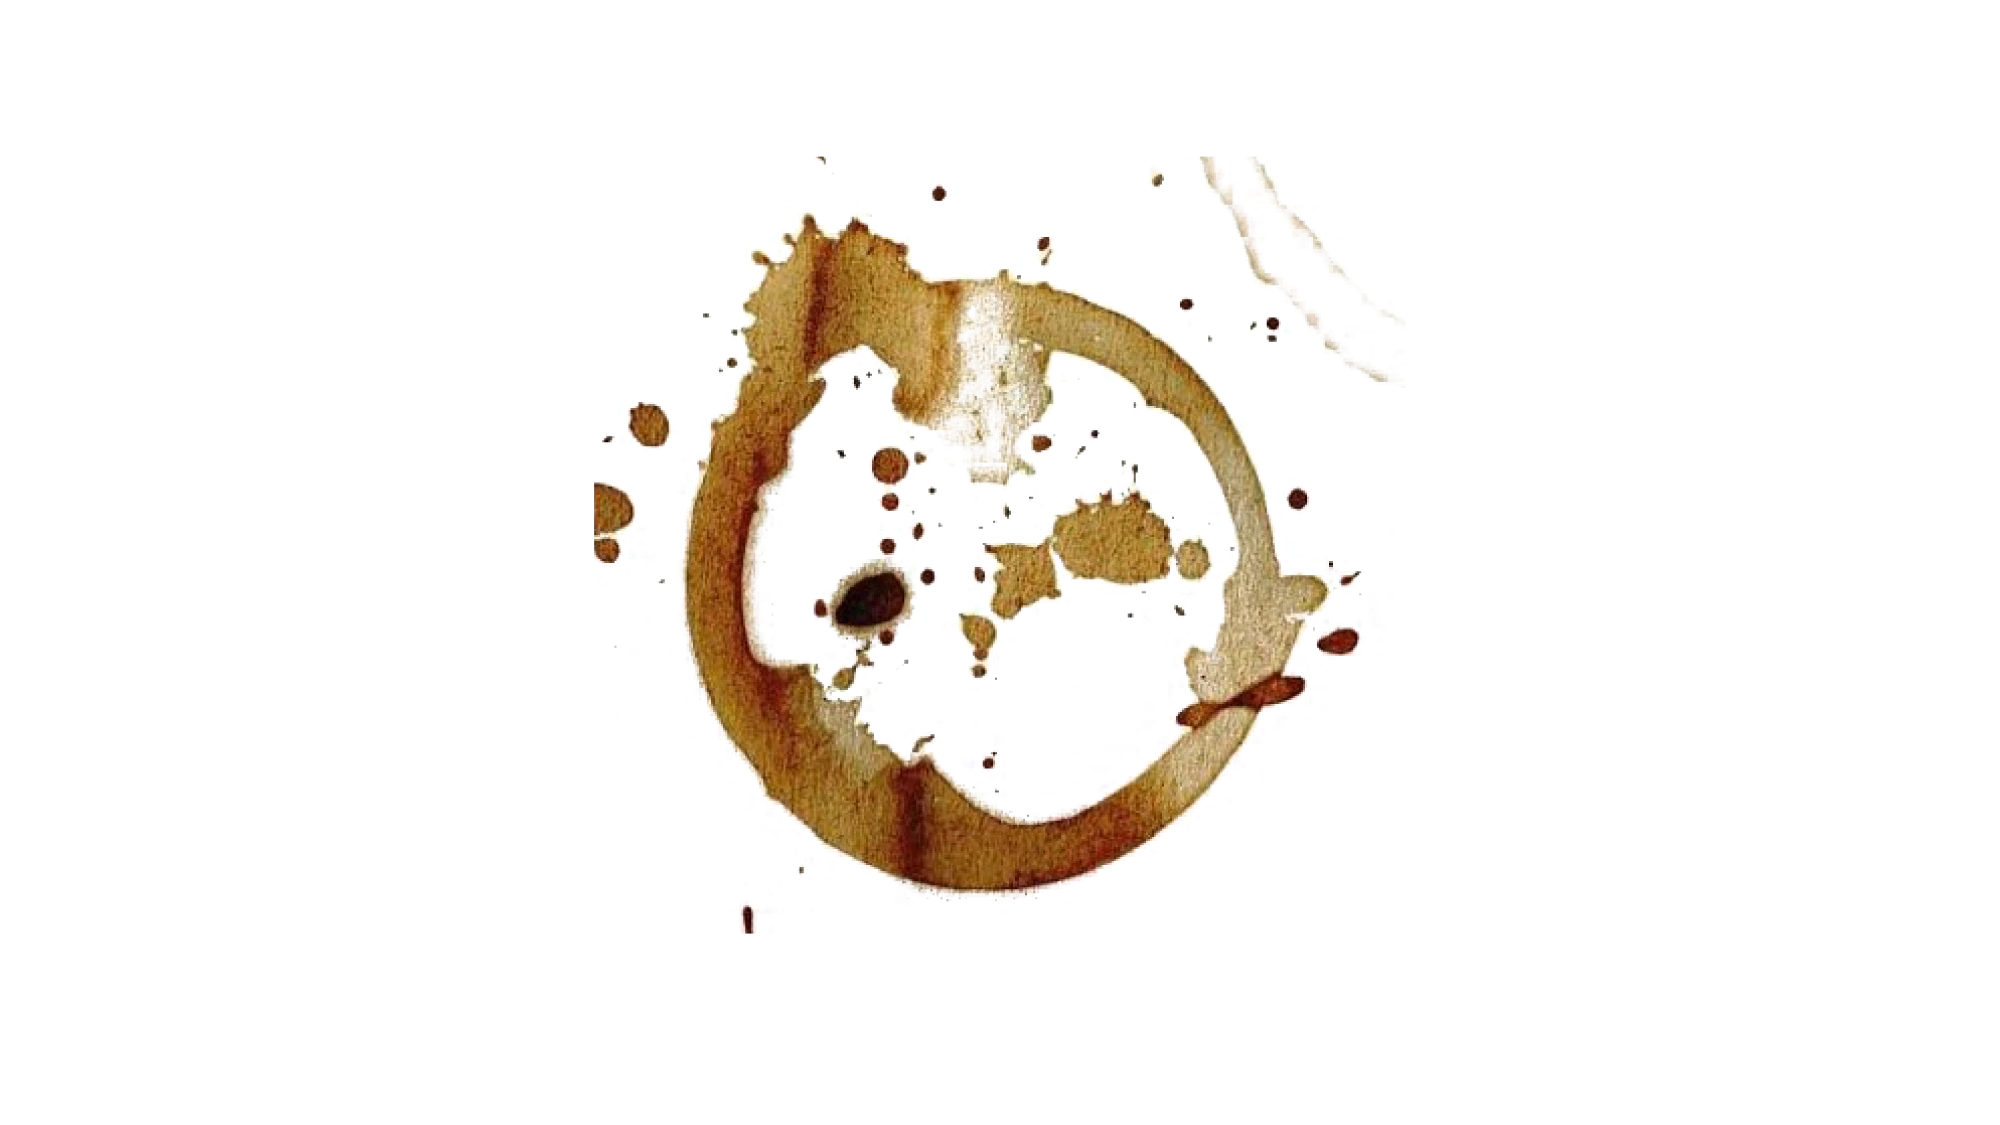
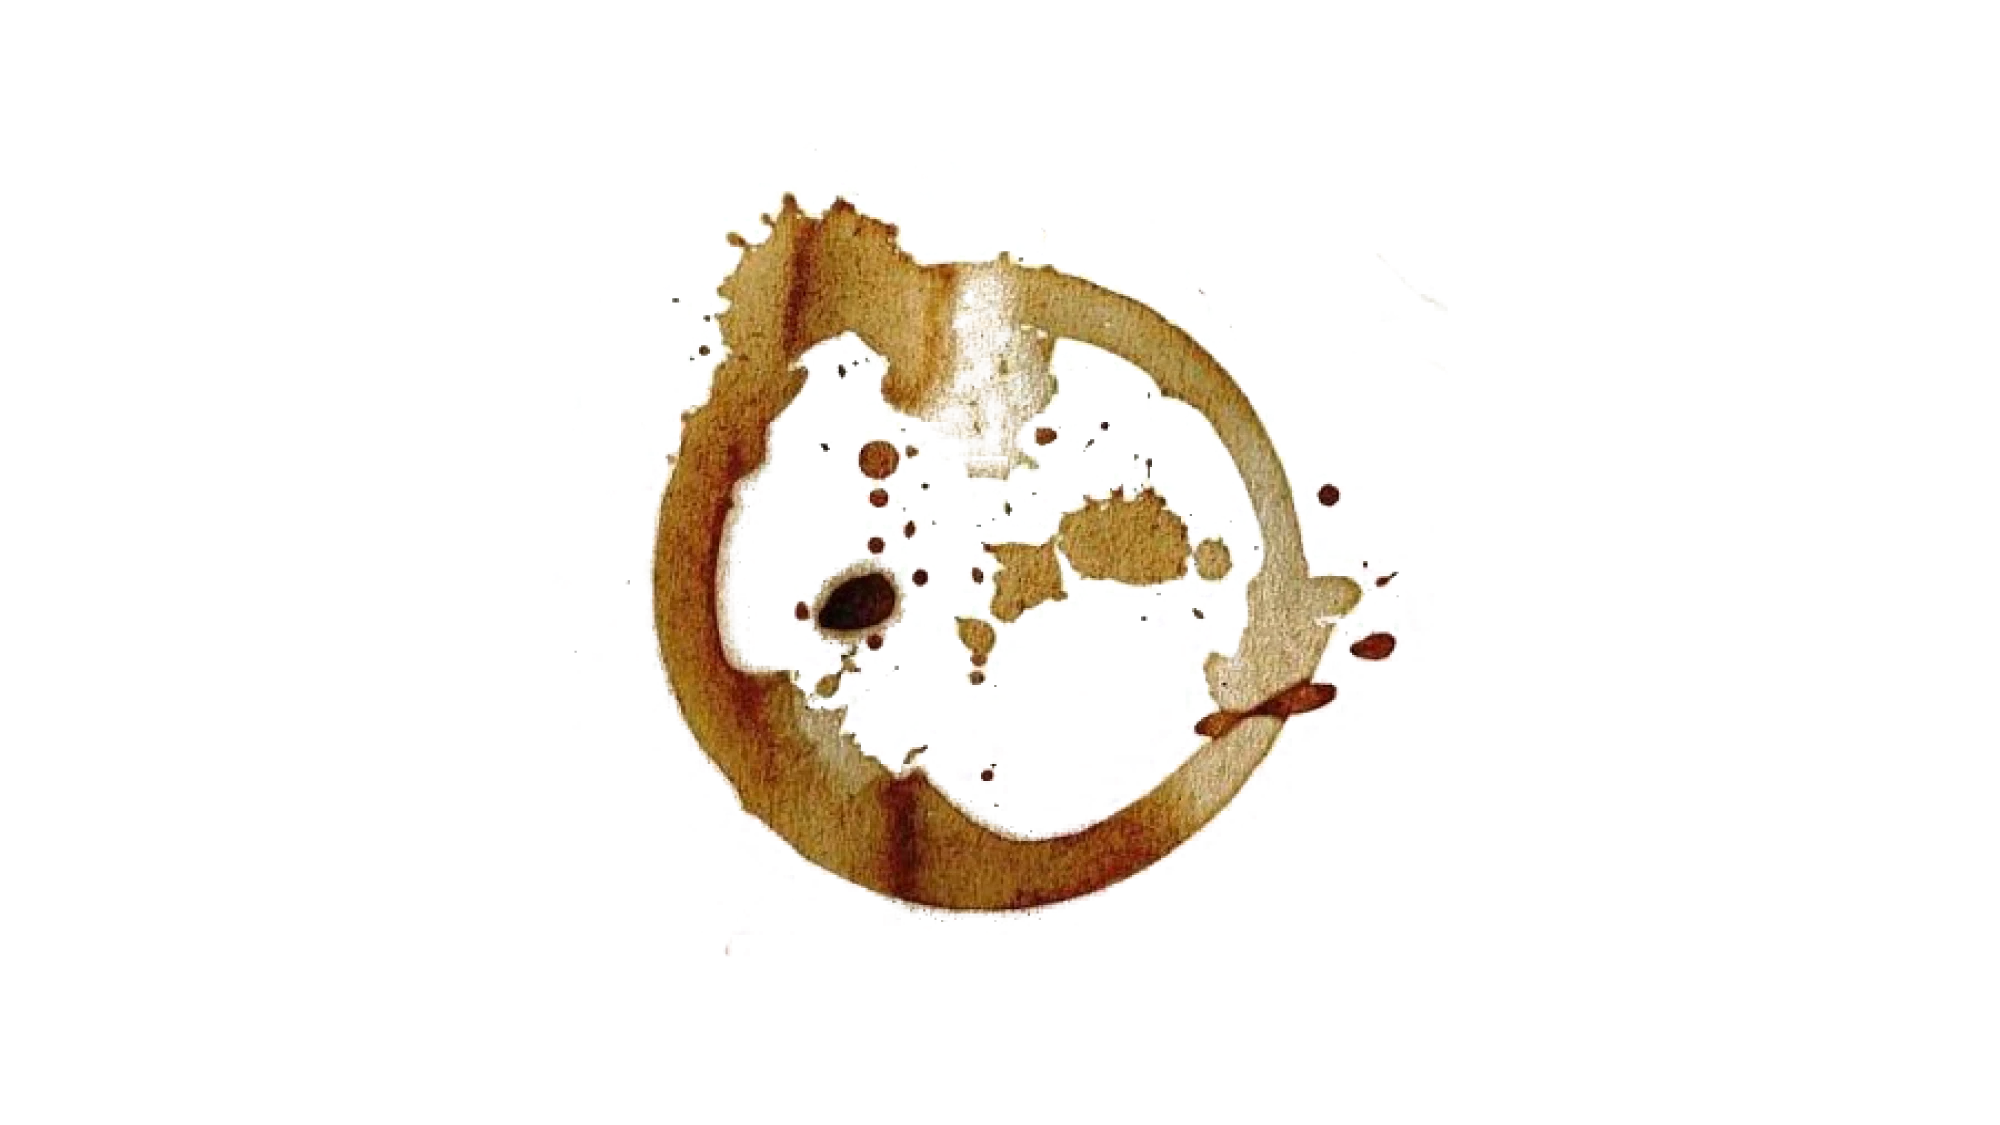
Use final transparent hero artwork and update asset notes
Claude-Session: https://claude.ai/code/session_01UELa4nN2nTxoVeK7DGTE9y

diff --git a/BRIEF.md b/BRIEF.md
@@ -81,10 +81,11 @@ Header nav: logo/wordmark (left) · Work · Notes · About · Contact (right). F
 - **No JS:** show the illustration with the stain as a static, slightly transparent overlay. The page must never be blank.
 - **Accessibility:** canvas gets `aria-hidden="true"`; the `<img>` underneath carries the description, e.g. *"Illustration of a person asleep on a giant orange slice, surrounded by burgers, donuts, pizza and popcorn, hidden beneath a chai stain."*
 
-### 3.4 Asset notes (important)
-- The files currently in `assets/hero/` are **placeholders** exported on white backgrounds. For the final build, export **both on the same artboard size (e.g. 2400×1350) with transparent backgrounds** as WebP (with alpha) plus a PNG fallback, perfectly aligned.
-- Until then, use `mix-blend-mode: multiply` on the stain/illustration so the white areas disappear into the paper background.
-- Target size: < 250 KB each. Also export a 1200 px version for mobile (`srcset`).
+### 3.4 Asset notes
+- `assets/hero/chai-stain.webp` and `assets/hero/illustration.webp` are **final**: 2000×1125 WebP, transparent backgrounds, on the same artboard and already aligned. Stack them at identical size and position and they line up.
+- Bounding boxes on the artboard: stain ≈ x 552–1448, y 132–957; illustration ≈ x 653–1385, y 185–958. The stain fully covers the illustration, so nothing peeks out before interaction. Crop both images to the same union box if you want smaller files, but keep them registered.
+- Generate a 1200 px wide version of each for mobile (`srcset`) and a PNG fallback. Keep each file < 250 KB.
+- Because the backgrounds are transparent, the warm `--paper` colour shows through around the art; no blend-mode tricks needed.
 
 ---
 
@@ -244,7 +245,7 @@ Run one phase at a time. Review in the browser before continuing.
 
 ## 11. Content checklist (what you need to prepare)
 
-- [ ] Final hero art: stain + illustration on the **same artboard**, transparent backgrounds (§3.4)
+- [x] Final hero art: stain + illustration on the same artboard, transparent backgrounds (§3.4)
 - [ ] Your name, role title, one-sentence positioning statement
 - [ ] 4–6 projects, each with: final images, **process images** (sketches/roughs, needed for the layer-peek), the brief, your insight, outcome
 - [ ] 3 Field Notes ideas (brands whose hidden stories you've noticed)

diff --git a/CLAUDE.md b/CLAUDE.md
@@ -2,6 +2,6 @@
 
 - `BRIEF.md` is the source of truth for concept, design system, interactions and build phases. Read it before any work.
 - Build one phase (BRIEF.md §10) at a time and meet its acceptance checks before moving on.
-- Hero artwork lives in `assets/hero/` (`chai-stain.webp` on top, `illustration.webp` underneath). The current files are placeholders on white backgrounds, see BRIEF.md §3.4.
+- Hero artwork lives in `assets/hero/` (`chai-stain.webp` on top, `illustration.webp` underneath). Both are final, transparent and aligned on the same 2000×1125 artboard, see BRIEF.md §3.4.
 - Never invent biography, clients or project facts. Use clearly marked `TODO` placeholders instead.
 - Respect `prefers-reduced-motion` and give every pointer interaction a keyboard/touch alternative.
